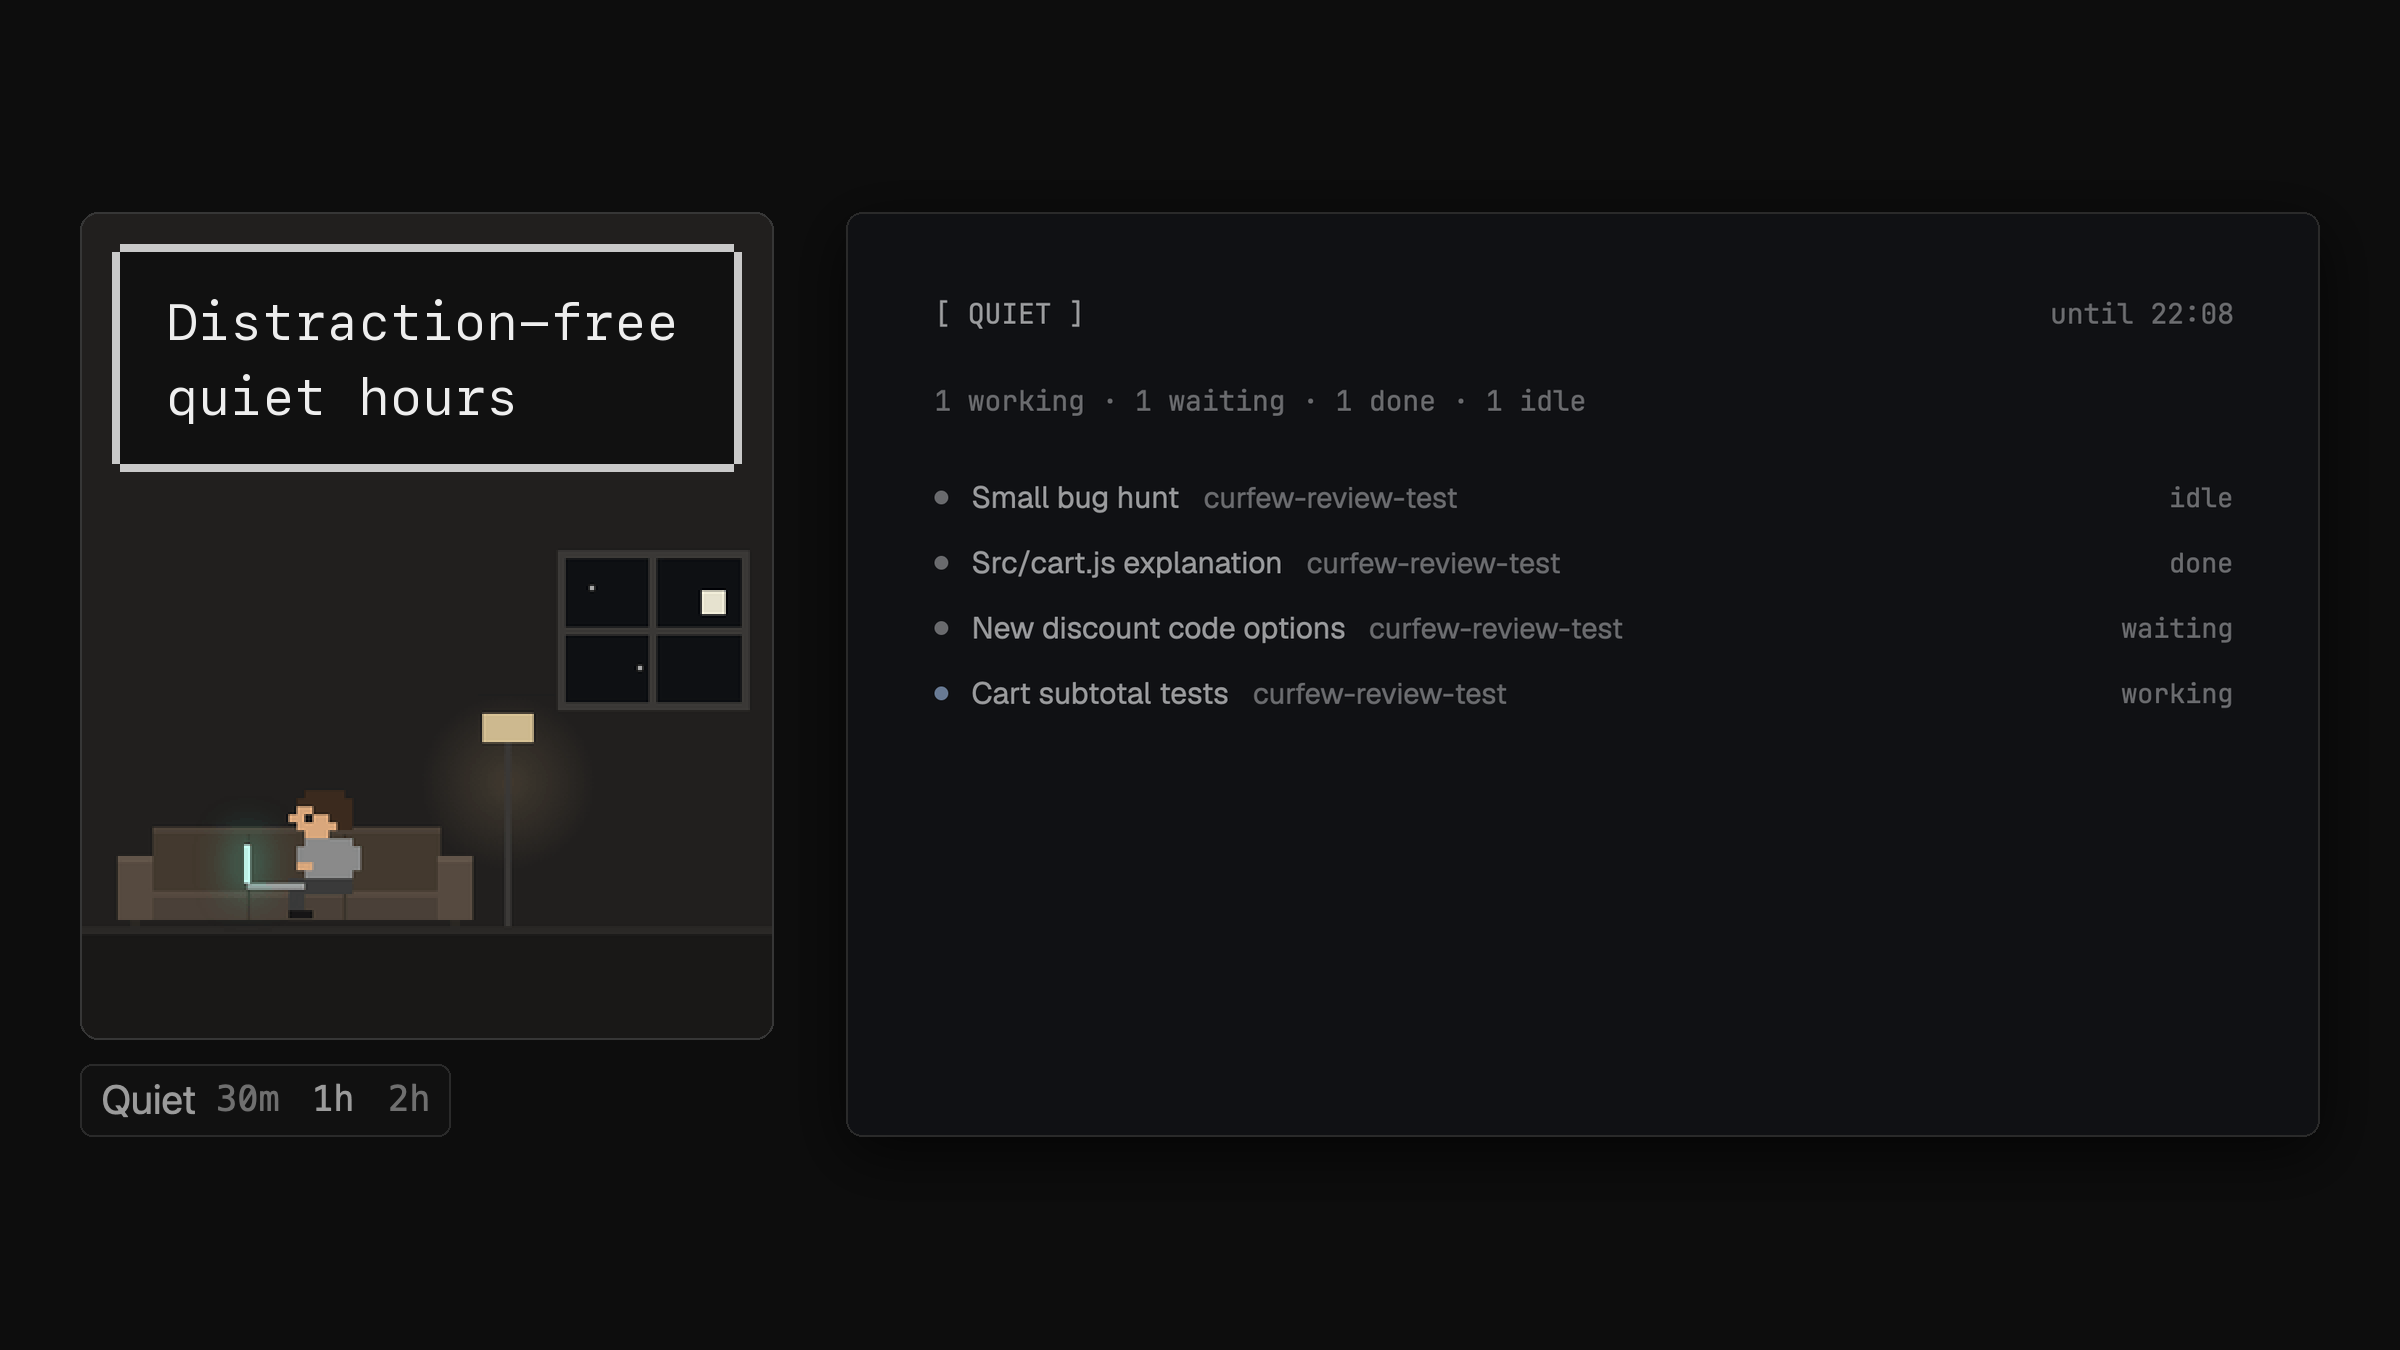
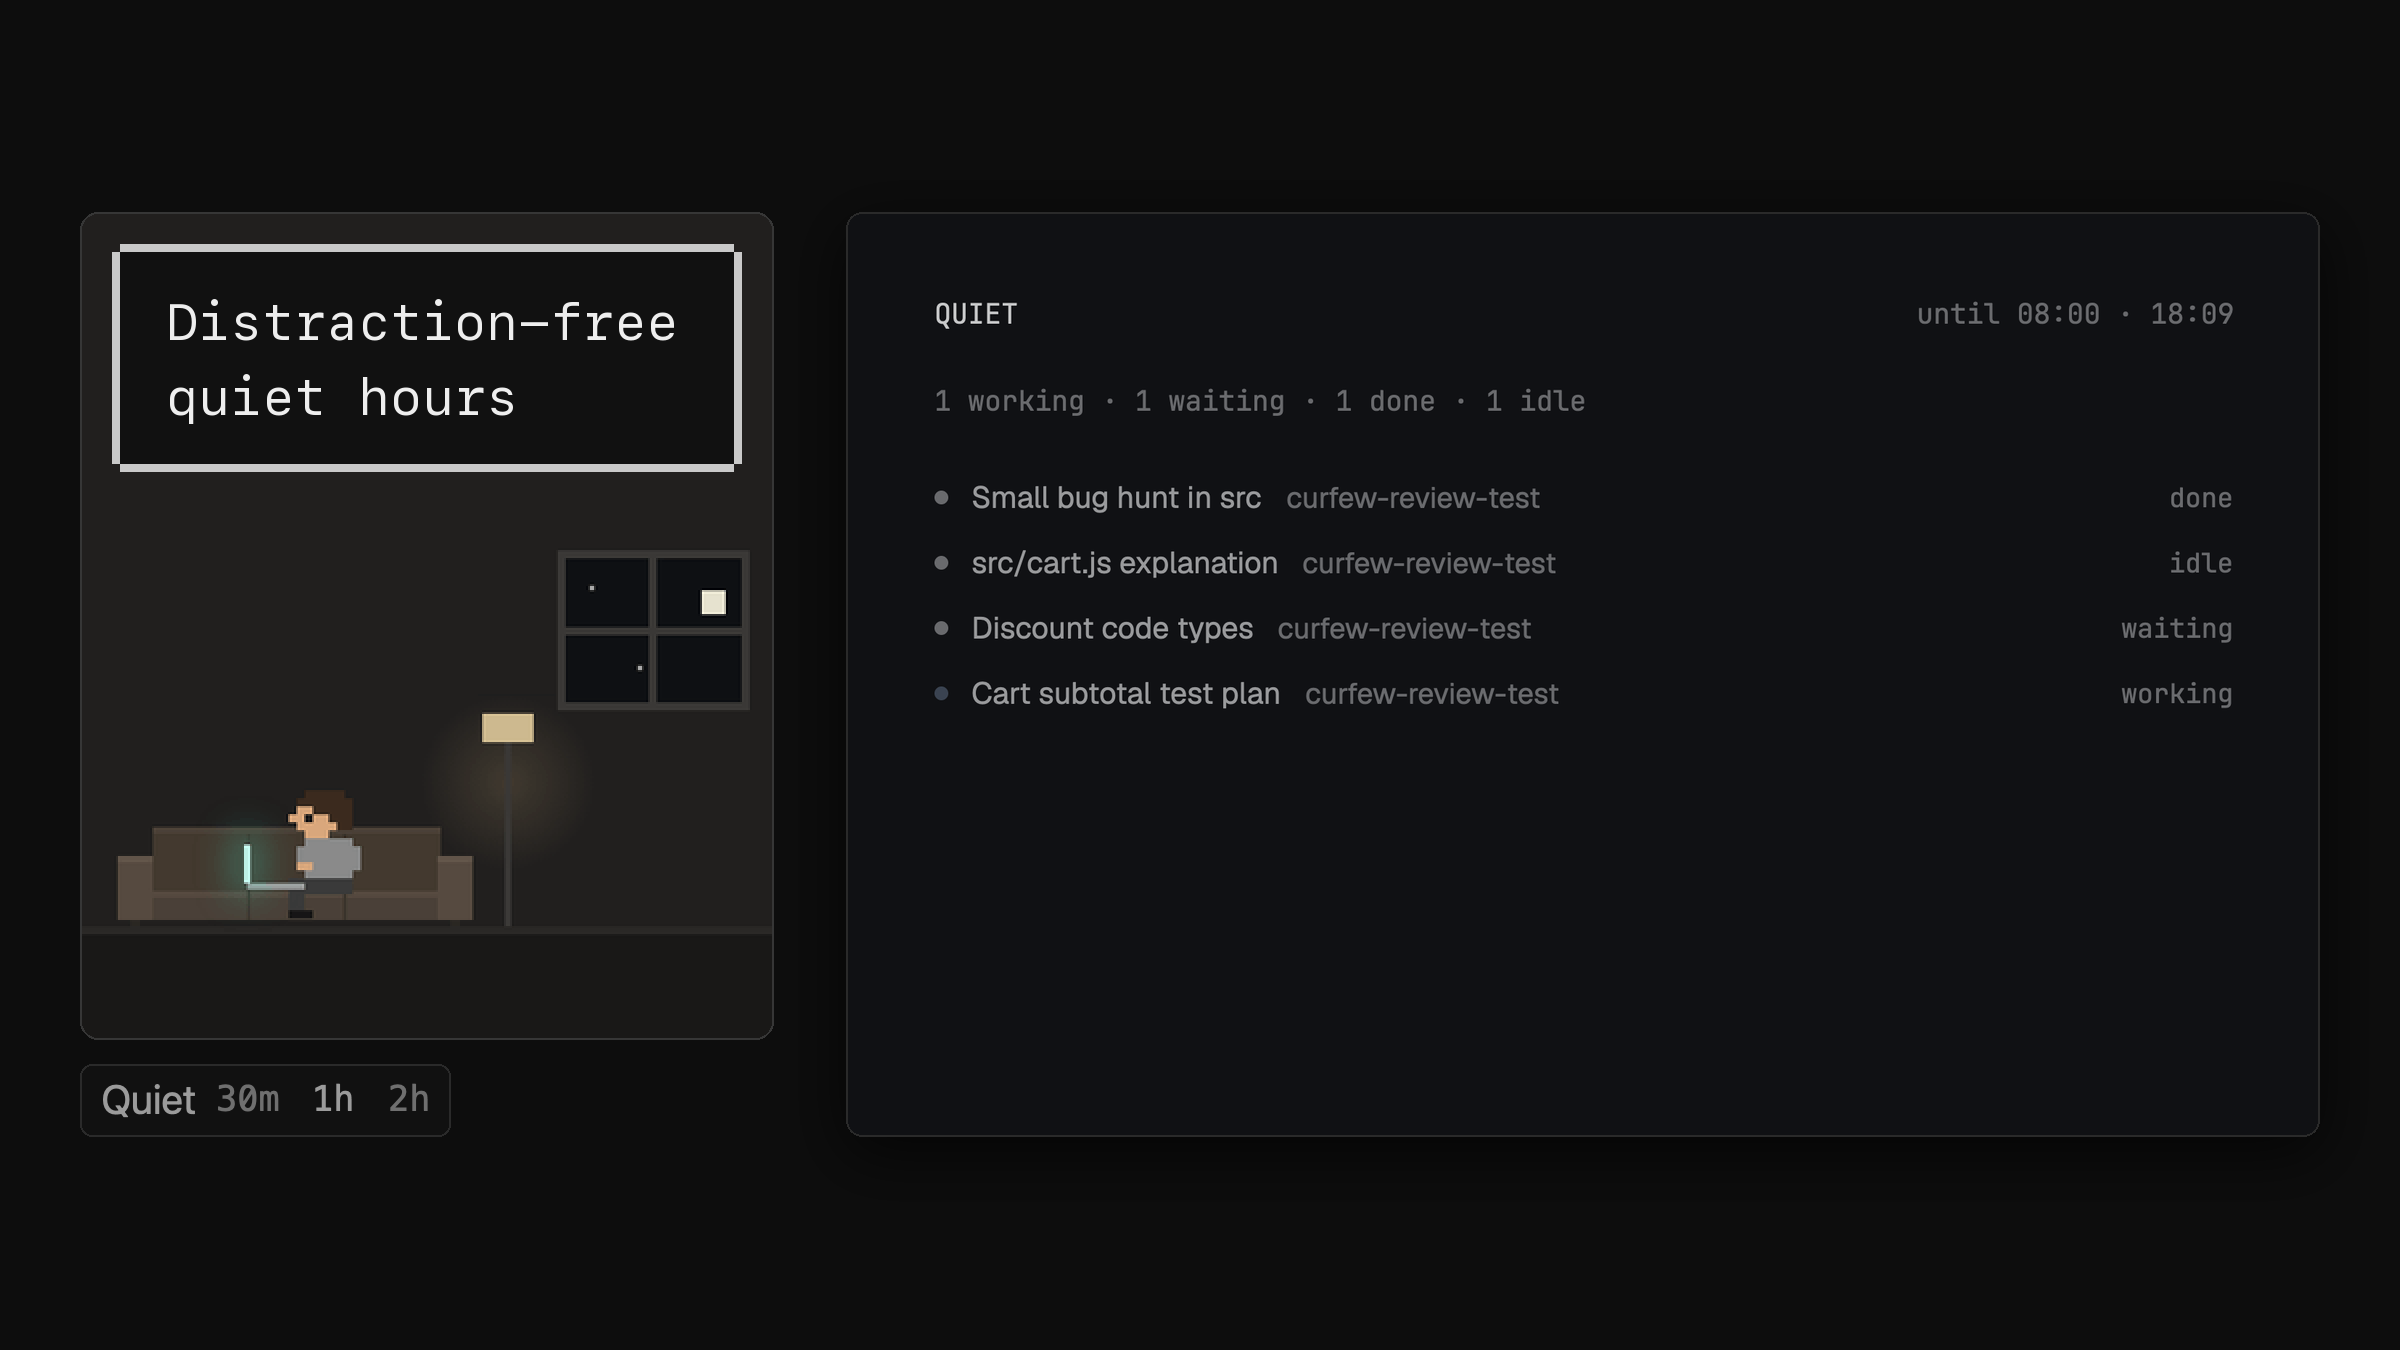
Head labels without brackets, in the lighter secondary tone; preview retaken
QUIET on the board and QUIET HOURS in settings lose their square brackets and
take the tone between foreground and muted.

diff --git a/mods/quiet-hours/ui.js b/mods/quiet-hours/ui.js
@@ -10,6 +10,13 @@ import { div, svg } from "gpui-kit";
 import { h_flex, v_flex } from "gpui-base";
 import { rowName } from "./names.mjs";
 
+// A tone between foreground and muted (#c9c9c9 in the curfew theme); the theme has no name for it.
+// The tone of a head's label.
+function secondary(t) {
+  const ch = (c, i) => parseInt(c.slice(1 + 2 * i, 3 + 2 * i), 16);
+  return "#" + [0, 1, 2].map((i) => Math.round(ch(t.foreground, i) * 0.55 + ch(t.muted, i) * 0.45).toString(16).padStart(2, "0")).join("");
+}
+
 // herdr's statuses as the board words them; blocked is "waiting", neutral.
 const WORD = { working: "working", blocked: "waiting", done: "done", idle: "idle" };
 const ORDER = ["working", "waiting", "done", "idle"];
@@ -122,7 +129,7 @@ export function board({ t, mono, state, now, agents, error, onUnlock, onEnd }) {
             .flex_none()
             .justify_between()
             .items_center()
-            .child(div().font_family(mono).text_size(12).text_color(t.muted).child("[ QUIET ]"))
+            .child(div().font_family(mono).text_size(12).text_color(secondary(t)).child("QUIET"))
             .child(faint(clock)),
         )
         .child(faint(countLine(agents)).flex_none())

diff --git a/mods/quiet-hours/settings.js b/mods/quiet-hours/settings.js
@@ -13,6 +13,13 @@ import { h_flex, v_flex, InputState, Input } from "gpui-base";
 import { DAYS } from "./clock.mjs";
 import { WEEK } from "./form.mjs";
 
+// A tone between foreground and muted (#c9c9c9 in the curfew theme); the theme has no name for it.
+// The tone of a head's label.
+function secondary(t) {
+  const ch = (c, i) => parseInt(c.slice(1 + 2 * i, 3 + 2 * i), 16);
+  return "#" + [0, 1, 2].map((i) => Math.round(ch(t.foreground, i) * 0.55 + ch(t.muted, i) * 0.45).toString(16).padStart(2, "0")).join("");
+}
+
 export const DIALOG = { width: 500, height: 476 };
 
 const NAME = { mon: "Mon", tue: "Tue", wed: "Wed", thu: "Thu", fri: "Fri", sat: "Sat", sun: "Sun" };
@@ -284,7 +291,7 @@ export function settingsDialog({ t, mono, form, errors, showAll, message, asking
         .h(18)
         .justify_between()
         .items_center()
-        .child(div().font_family(mono).text_size(10.5).text_color(t.dim).child("[ QUIET HOURS ]"))
+        .child(div().font_family(mono).text_size(10.5).text_color(secondary(t)).child("QUIET HOURS"))
         .child(div().font_family(mono).text_size(10.5).text_color(t.dim).child("esc")),
     )
     .child(div().h(12).flex_none())

diff --git a/RECIPE.md b/RECIPE.md
@@ -39,7 +39,8 @@ any theme); text is the layout's UI font unless marked mono, which is `settings(
   `30 min`, `1 hour`, `2 hours`.
 - **The board** (`role: "board"`), the whole window during quiet, on `chrome`. Padding 56 px
   top, 28 px bottom, 40 px at the sides; a centered column at most 560 px wide, 18 px gaps:
-  - A row: `[ QUIET ]` (mono 12 px, `muted`) at the left; at the right, mono 12 px `dim`:
+  - A row: `QUIET` (mono 12 px, halfway between `foreground` and `muted`, the tone of a
+    head's label) at the left; at the right, mono 12 px `dim`:
     `until 08:00 · 23:41` in a scheduled night, `until 14:30` in a quiet now,
     `next 18:00 · 12:00` outside quiet.
   - A count in mono 12 px `dim`: `2 working · 1 waiting · 3 done`, zero counts left out,
@@ -70,7 +71,7 @@ any theme); text is the layout's UI font unless marked mono, which is `settings(
   (`frame: "none"`): it draws its own. A 3 px margin, then a `popover` body with a 1 px
   `input` border, 2 px radius, 20 px side padding and 16 px top and bottom, 13 px text; a
   5×5 px `dim` square on each of the frame's four corners.
-  - Top row: `[ QUIET HOURS ]` and `esc`, mono 10.5 px `dim`.
+  - Top row: `QUIET HOURS` (the head's tone, as on the board) and `esc` (`dim`), mono 10.5 px.
   - The switch: a 26×14 px pill (1 px border `muted` and `selected` fill when on, `input` and
     `chrome` when off) with an 8 px knob (`foreground` at the right when on, `dim` at the left
     when off), then `Quiet hours on` / `Quiet hours off`.

diff --git a/docs/reference.md b/docs/reference.md
@@ -7,7 +7,7 @@ key is in [`mods/quiet-hours/README.md`](../mods/quiet-hours/README.md).
 ## What it does
 
 - **The board.** During your quiet hours the window switches to the `quiet-hours` layout: one
-  dim screen with `[ QUIET ]`, when quiet ends and the time, a count (`2 working · 1 waiting`),
+  dim screen with `QUIET`, when quiet ends and the time, a count (`2 working · 1 waiting`),
   and a row per agent: a dot, the name its Claude Code session gave itself (else its tab or
   program), faint the project it works in (its git repository, so every worktree reads the
   repository's name), and its status, e.g. `Small bug hunt  uploader  working`. No terminals,

diff --git a/mods/quiet-hours/README.md b/mods/quiet-hours/README.md
@@ -69,7 +69,7 @@ A broken edit keeps the last good config and shows the reason on the chip.
 
 ## The board
 
-The quiet screen: `[ QUIET ]` with when quiet ends and the time, a count
+The quiet screen: `QUIET` with when quiet ends and the time, a count
 (`2 working · 1 waiting`), and a row per agent:
 
 ```
